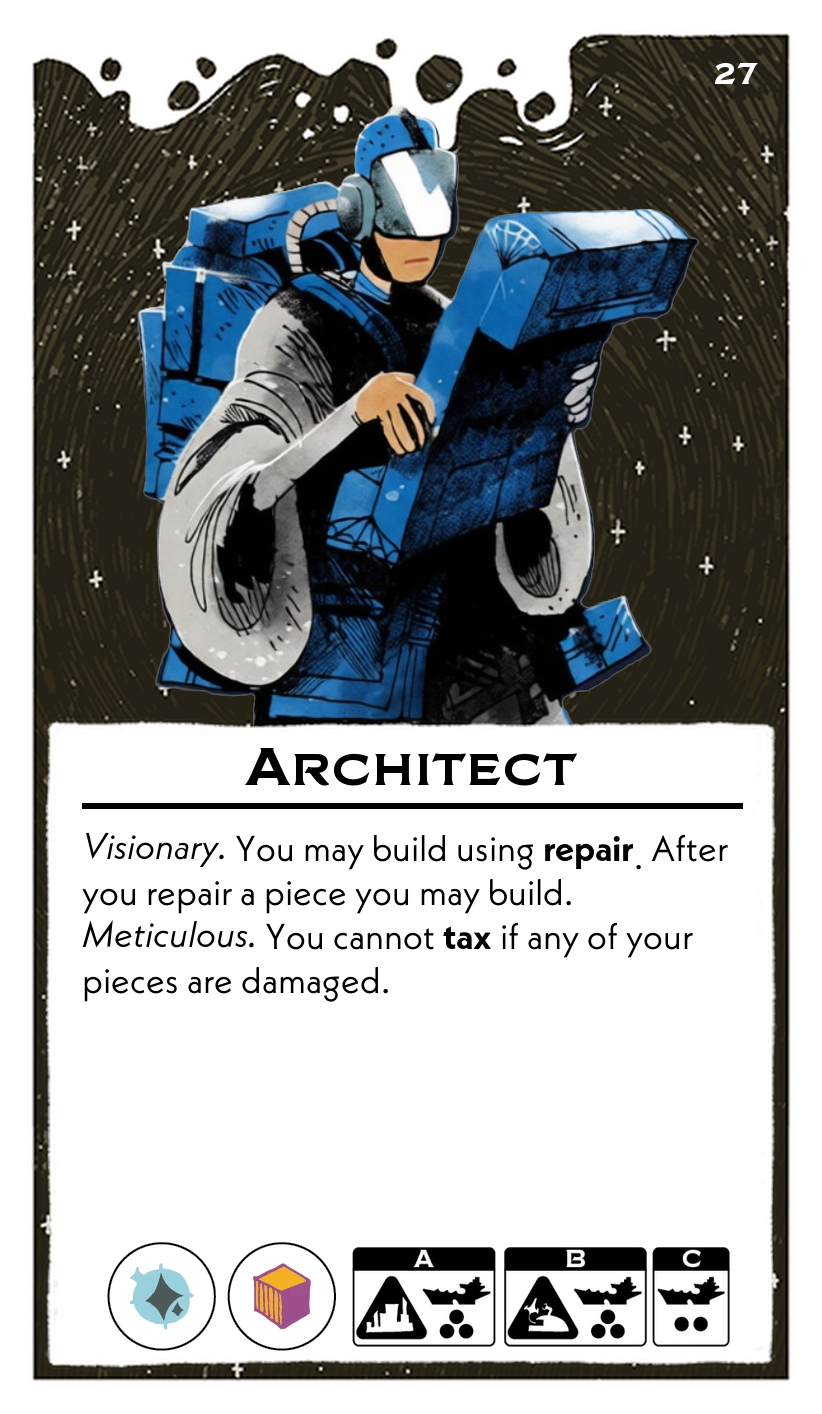
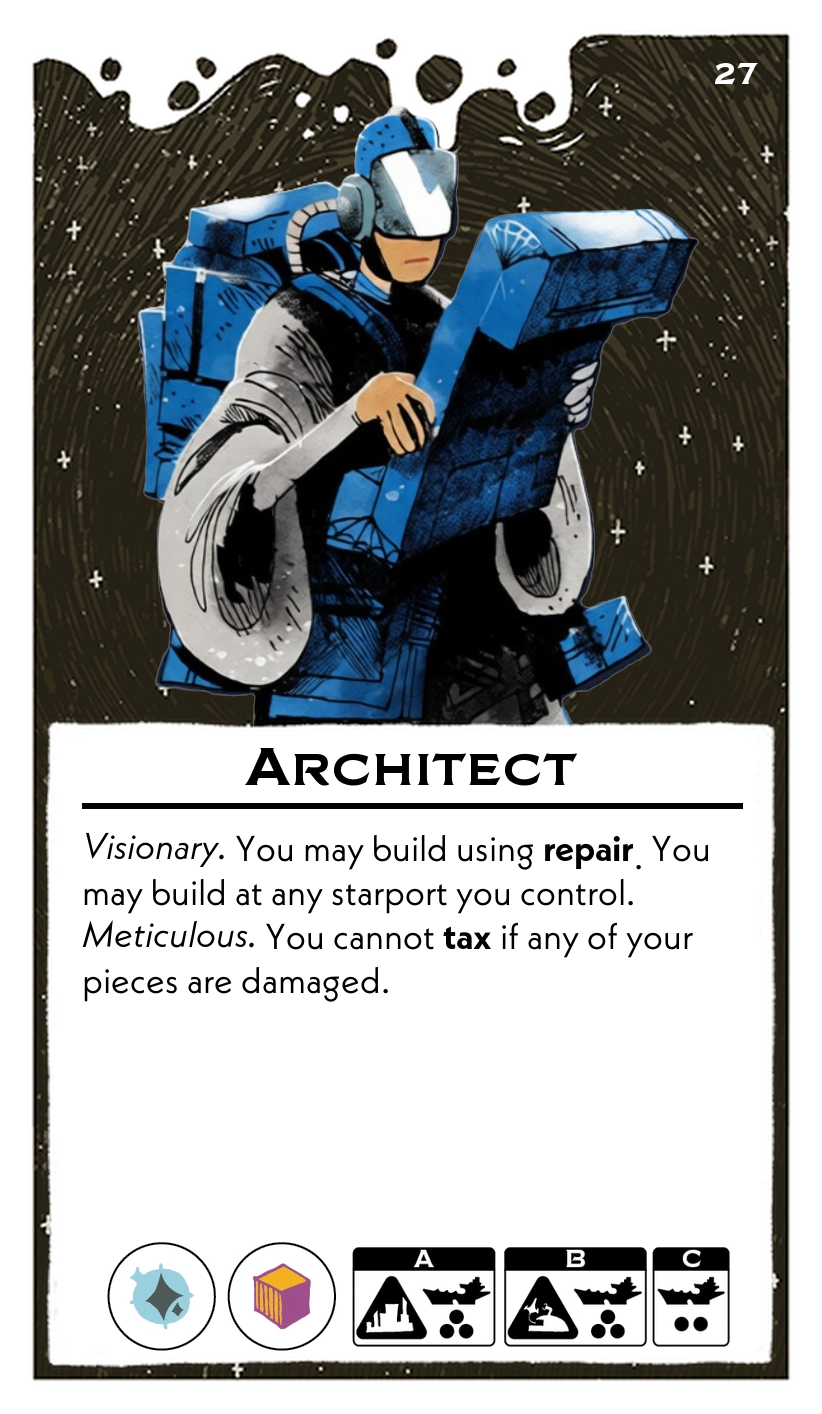
ls

Changed region(s): [[0.0912, 0.6223, 0.7603, 0.6535], [0.7908, 0.5912, 0.882, 0.6223]]

diff --git a/scripts/leadersFormatted.py b/scripts/leadersFormatted.py
@@ -413,7 +413,7 @@ leaders = [
     {
         "name": "Architect",
         "abilities": (
-            "*Visionary.* You may build using **repair**. After you repair a piece you may build.\n"
+            "*Visionary.* You may build using **repair**. You may build at any starport you control.\n"
             "*Meticulous.* You cannot **tax** if any of your pieces are damaged."
         ),
         "resources": ["Relic", "Material"],
@@ -632,7 +632,7 @@ leaders = [
     {
         "name": "Iconoclast",
         "abilities": (
-            "*Radical.* When you discard a card to seize, you may destroy a city you control to steal a Guild card from a player which type matches that city's type.\n"
+            "*Radical.* When you discard a card to seize, you may destroy a city you control to steal a Guild card which type matches that city's type.\n"
             "*Fervent.* In **setup**, destroy one of your cities."
         ),
         "resources": ["Psionic", "Weapon"],
@@ -684,7 +684,7 @@ leaders = [
         "name": "Curator",
         "abilities": (
             "*Meticulous.* When you **secure** a card, you may discard it to gain two lore cards.\n"
-            "*Ascetic.* At the end of each chapter, give one lore card to another player, if you're in first place, give away another."
+            "*Ascetic.* At the end of each chapter, give one lore card to another player. If you're in first place, give away another."
         ),
         "resources": ["Psionic", "Relic"],
         "setup": {
